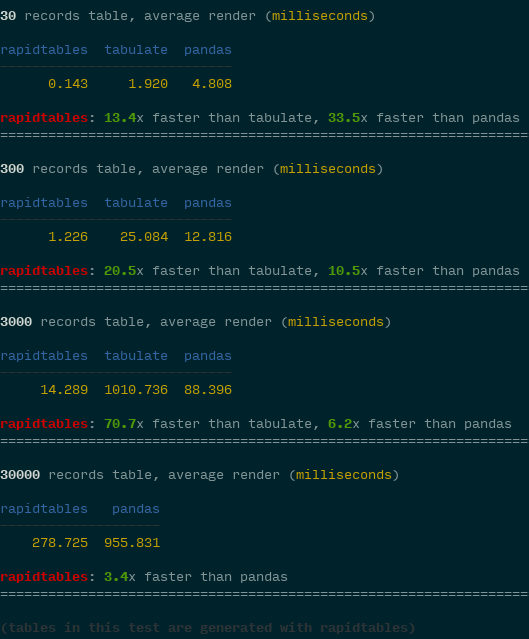
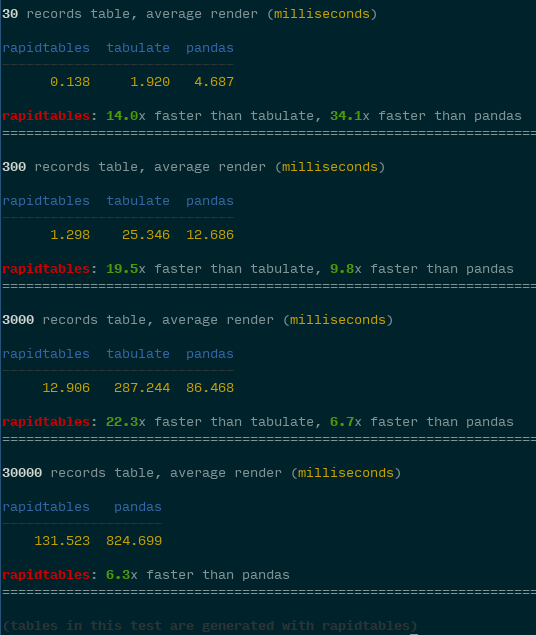
better benchmarks

diff --git a/benchmark.py b/benchmark.py
@@ -11,7 +11,6 @@ import rapidtables
 import tabulate
 import pandas
 
-num = 100
 table = []
 
 pandas.options.display.max_colwidth = 50
@@ -38,6 +37,7 @@ print('Benchmarking')
 print()
 
 for rec in (30, 300, 3000, 30000):
+    num = 90000 // rec
     print(
         colored(str(rec), color='white',
                 attrs=['bold']), 'records table, average render (' +
@@ -46,7 +46,7 @@ for rec in (30, 300, 3000, 30000):
     for i in range(rec):
         table.append({
             'n': i,
-            'txt': 't' * int(i / 10),
+            'txt': 't' * int((i if i < 300 else 300) / 10),
             'zzz': None,
             'numeric': 222,
             'yyy': 'eee {} 333'.format(i)
